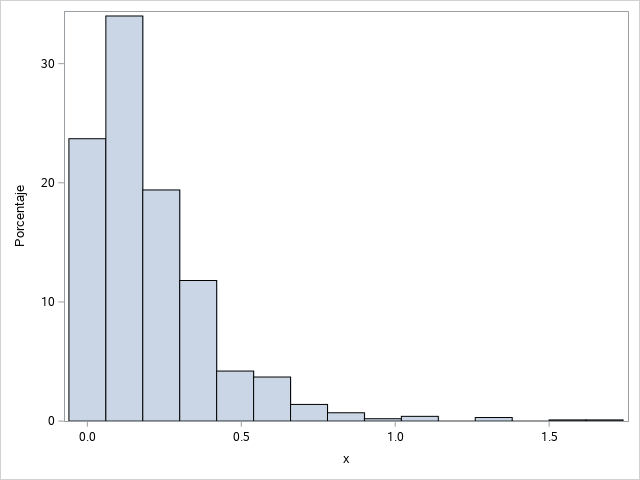
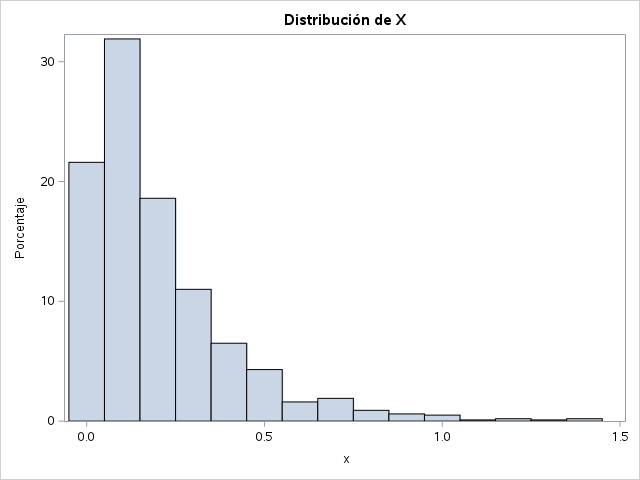
Se completa el ejemplo del primer post

diff --git a/docs/_posts/2023-01-05-simulacion-variables-aleatorias1.md b/docs/_posts/2023-01-05-simulacion-variables-aleatorias1.md
@@ -3,13 +3,13 @@ layout: post
 title:  "Simulación de variables aleatorias"
 date:   2023-01-05 12:00:00 -0600
 categories: probabilidad simulación
-tags: simulación variable aleatoria uniforme probabilidad sas r  
+tags: simulación variable aleatoria uniforme probabilidad sas r julia python 
 author: Francisco Ariel
 ---
 
 {% include footer2.html %}
 
-En probabilidad, el concepto de _variable aleatoria_ es uno de los pilares fundamentales para entender el comportamiento de un fenómeno aleatorio ya que su comportamiento está gobernado por una función de distribución $$F_X(x)$$.
+En probabilidad, el concepto de _variable aleatoria_ es uno de los pilares fundamentales para entender el comportamiento de un fenómeno aleatorio ya que su comportamiento está gobernado por una función de distribución $F_X(x)$.
 
 Sin embargo en ocasiones es complicado visualizar el comportamiento de dicha variable aleatoria, por lo que es necesario __simular__ valores que podría tomar una realización de dicha variable aleatoria.
 
@@ -17,17 +17,23 @@ En este artículo se presenta una forma de simular valores de una distribución 
 
 ## Método para simular variables aleatorias
 
-La técnica para simular variables aleatorias es la _transformación integral de probabilidad_. Esta técnica nos dice que para generar valores de una variable aleatoria $$X$$ con función de de distribución $$F_X(x)$$, es suficiente con generar valores aleatorios $$u$$ de una función de distribución uniforme en el intervalo (0,1) y hacer $$x = F_X^{-1}(u)$$. Las computadoras (e incluso calculadoras) tienen generadores de números aleatorios que pueden servir para crear valores de $$x$$.
+La técnica para simular variables aleatorias es la _transformación integral de probabilidad_. Esta técnica nos dice que para generar valores de una variable aleatoria $X$ con función de de distribución $F_X(x)$, es suficiente con generar valores aleatorios $u$ de una función de distribución uniforme en el intervalo (0,1) y hacer $$x = F_X^{-1}(u).$$
+
+Las computadoras (e incluso calculadoras) tienen generadores de números aleatorios que pueden servir para crear valores de $x$.
 
 Para mayores detalles se puede consultar (Mood, Graybill, y Boes 1974).
 
 ## Ejemplo de números aleatorios
 
-Supóngase que se quieren simular valores de una distribución exponencial con parámetro $$\lambda = 5$$, es decir $$F_X(x)=(1-e^{-\lambda x})I_{(0,\infty)}(x)$$. Entonces para generar valores de esta distribución, basta con hacer $$x = -(1/\lambda)\log (1-U)$$.
+Supóngase que se quieren simular valores de una distribución exponencial con parámetro $\lambda \gt 0$, es decir $$F_X(x)=(1-e^{-\lambda x})I_{(0,\infty)}(x).$$
+
+Para generar valores de esta distribución, basta con hacer $$x = -(1/\lambda)\log (1-u).$$
 
 ### Ejemplo con R
 
-El siguiente código en R muestra la forma de realizarlo. La forma de generar los números aleatorios es mediante la función `aleat_exp()`. Esta función usa un generados de números aleatorios uniformes y el resultado se almacena en el vector `x`. Posteriormente se crea el objeto `simulacion` para poder graficar su histograma.
+El siguiente código en R muestra una forma de realizarlo. La forma de generar los números aleatorios es mediante la función `aleat_exp()`. Esta función usa valores generados de números aleatorios uniformes por medio de la función de R `runif()`, se hace la transformación y devuelve un resultado.
+
+Cuando se llama la función, el resultado se almacena en el vector `x` y posteriormente se crea el dataframe `simulacion` para poder graficar su histograma.
 
 {% highlight r %}
 #Función para simular
@@ -46,30 +52,80 @@ ggplot(data = simulacion,aes(X))+geom_histogram()+theme_classic()+
 
 ![Histograma de la simulación con R](/assets/sim_r.png)
 
+Si se desea replicar el resultado, antes de llamar la función se puede usar la función `set.seed()` indicando la semilla con el fin de poder replicar el resultado, por ejemplo `set.seed(123)`.
+
 ### Ejemplo con SAS software
 
-Se ejemplifica la forma de crear valores aleatorios usando SAS/STAT® software. Primero se definen las variables macro a usar `&n.` y `&lambda.`, posteriormente se usa un paso data para generar los números aleatorios y almacenarlos en un dataset y finalmente se grafican.
+Se ejemplifica la forma de crear valores aleatorios usando SAS/STAT® software.
+
+Primero se definen las variables macro a usar `&n.` y `&lambda.`, posteriormente se usa un paso data para crear un dataset con  los números aleatorios generados y finalmente se grafican con el procedimiento `proc sgplot`.
 
 {% highlight sas %}
 /*Variables macro*/
 %LET n = 1000;
 %LET lambda = 5;
 data simulacion;
-    drop i semilla;
-    semilla = 123;
     do i = 1 to &n.;
-       call ranuni(semilla,u);
+       u = rand("uniform");
        x = (-1/&lambda.)*log(1-u);
        output;
     end;
+    keep x;
 run;
 /*Gráfico*/
 proc sgplot data=simulacion;
-histogram x;
+  histogram x;
+  title "Distribución de X";
 run;
 {% endhighlight %}
 
+Para establecer un valor inicial de la secuencia, se puede usar la llamada a la rutina `call streaminit;` antes de generar los números aleatorios, por ejemplo `call streaminit(12345);`.
+
 ![Histograma de la simulación con SAS](/assets/sim_sas.png)
+
+### Ejemplo con Julia
+
+Para generar números aleatorios con Julia, se puede definir una función y después se puede graficar usando la función histogram del paquete `StatsPlot`.
+
+{% highlight julia %}
+    function rand_exp(n,l=1)
+        u = rand(n)
+        x = -1*(1/l)*log.(1 .- u)
+        return x
+    end
+    using StatsPlots
+    histogram(x,xlabel="X", ylabel="Frecuencia",legend =:none)
+    title!("Distribución de X")
+{% endhighlight %}
+
+![Histograma de la simulación con Julia](/assets/sim_julia.png)
+
+Para establecer una semilla inicial se puede usar la función `Random.seed!()` de la librería `Random`, por ejemplo, `Random.seed!(123)`.
+
+### Ejemplo en Python
+
+En Python, se puede definir una función para generar los números aleatorios y posteriormente se puede graficar su comportamiento. Se requiere la librería `numpy` para el generador de números aleatorios y `mathplotlib` para los gráficos.
+
+{% highlight python %}
+import numpy as nu
+from numpy.random import uniform
+import matplotlib.pyplot as mp
+
+def rand_exp(n, l=1):
+    x = [0]*(n)
+    u = uniform(low=0, high=1, size=n)
+    x = (-1/l)*nu.log(1-u)
+    #x = nu.array(x)
+    return x
+
+x = rand_exp(1000, 5)
+
+mp.hist(x)
+mp.title('Distribución de $X$')
+mp.show()
+{% endhighlight %}
+
+Para establecer un valor inicial, se puede usar la función `numpy.random.default_rng()`, por ejemplo `numpy.random.default_rng(seed=123)`.
 
 ## Conclusión
 
@@ -78,6 +134,8 @@ Esta técnica es muy útil para simular valores con cierta distribución y es mu
 En el próximo artículo exploraremos otras técnicas para simular variables aleatorias de otras distribuciones, por ejemplo la distribución normal.
 
 ## Referencias
+
+Nazarathy, Yoni, y Hayden Klok. 2021. Statistics with Julia. Switzerland: Springer.
 
 Mood, Alexander, Franklin Graybill, y Duane Boes. 1974. _Introduction to the Theory of Statistics_. McGraw-Hill.
 
